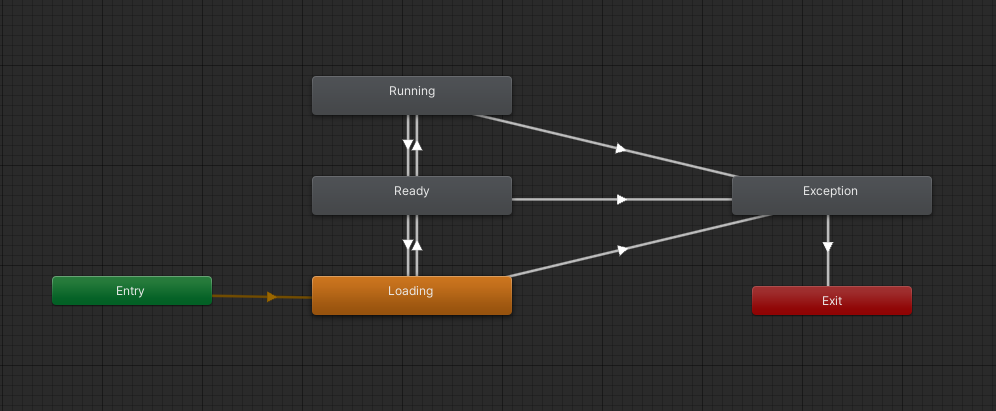
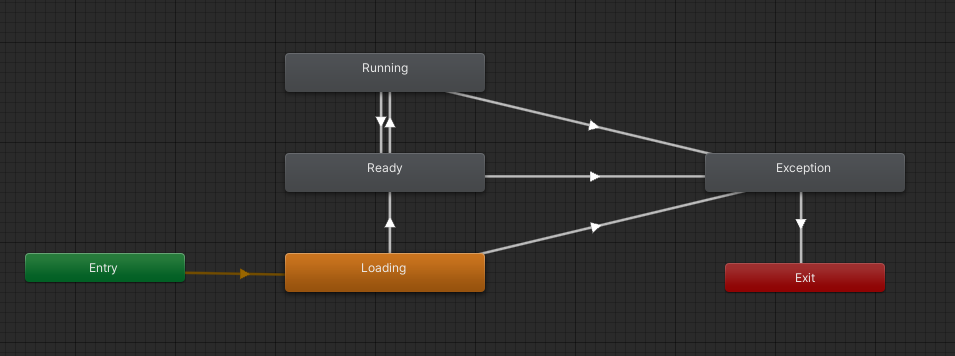
add two signaling_handler files for further refactor; update FSM in docs;

Changed region(s): [[0.0, 0.4017, 0.9717, 0.8343], [0.2733, 0.1236, 0.6984, 0.4944], [0.7895, 0.4326, 0.8806, 0.4944]]

diff --git a/DeepLearningScheduler/handler_signaling.py b/DeepLearningScheduler/handler_signaling.py
@@ -1,0 +1,96 @@
+import asyncio
+import queue
+import logging, time
+
+# self-defined modules
+from control_signal import generate_signal, parse_signal, SignalCommand
+from AbstractHandler import HandlerStatus
+
+async def handle_signaling(control_queue, base_time, config, logger=logging, instance=None):
+    """
+    singaling response in child process
+    handler the signals from controller to move itself to different status
+    """
+    handler_id, handler_name, handler_description, handler_priority, handler_dependencies = config
+    if(instance is None):
+        logger.critical(f"Can not create a signaling handler without task instance in task [{handler_id}]{handler_name}")
+        return
+    STATUS = HandlerStatus.Entry
+    logger.debug(f'handler signaling processing debug:{handler_id}, {handler_name}, {handler_description}, {handler_priority}, {handler_dependencies}, {STATUS}')
+    while True:
+        # 使用asyncio.sleep()挂起协程，让它不阻塞
+        # await asyncio.sleep(0)
+        # 使用queue.get_nowait()检查queue是否有信号，如果有就立即返回，如果没有就抛出queue.Empty异常
+        try:
+            signal_message = control_queue.get_nowait()
+            # logging.debug(f"Received signal: {signal_message}")
+            # only handle the signal with their handlerid
+            signal_handlerid, signal_command, *signal_args = parse_signal(signal_message)
+            if(signal_handlerid != handler_id):
+                # put it back until the correct receiver handle it
+                control_queue.put(signal_message)
+                continue
+            # logger.info(f"[{handler_id}][{handler_name}] Received signal: [{signal_command}]")
+            # depends on different signal to execute handlers
+            if(SignalCommand[signal_command] == SignalCommand.PING):
+                # return a time
+                reply_time = f"--time {time.time() - base_time}"
+                # use this handler_id as unique identity
+                reply_source = f"--source {handler_id}"
+                # for enum value, must send it's value so that the receiver can match it.
+                reply_status = f"--status {STATUS.value}"
+                # only in status entry, reply heart ping
+                if(STATUS == HandlerStatus.Entry):
+                    signal_message = generate_signal(0, SignalCommand.PING, reply_time, reply_source, reply_status)
+                    control_queue.put(signal_message)
+                continue
+            elif(SignalCommand[signal_command] == SignalCommand.LOADDATA):
+                # skip repeat signal while already in execution
+                if(STATUS == HandlerStatus.Load):
+                    continue
+                loop = asyncio.get_event_loop()
+                start_time = time.time() - base_time
+                # load data until finished
+                await loop.create_task(instance.load_data())
+                STATUS = HandlerStatus.Load
+                reply_start_time = f"--start_time {start_time}"
+                reply_end_time = f"--end_time {time.time() - base_time}"
+                reply_source = f"--source {handler_id}" # use this handler_id as unique identity
+                reply_status = f"--status {STATUS.value}" # for enum value, must send it's value so that the receiver can match it.
+                signal_message = generate_signal(0, SignalCommand.PING, reply_source, reply_status, reply_start_time, reply_end_time)
+                control_queue.put(signal_message)
+                continue
+            elif(SignalCommand[signal_command] == SignalCommand.READY):
+                # skip repeat signal while already in execution
+                if(STATUS == HandlerStatus.Ready):
+                    continue
+                start_time = time.time() - base_time
+                # set to ready
+                instance.ready()
+                STATUS = HandlerStatus.Ready
+                reply_start_time = f"--start_time {start_time}"
+                reply_end_time = f"--end_time {time.time() - base_time}"
+                reply_source = f"--source {handler_id}" # use this handler_id as unique identity
+                reply_status = f"--status {STATUS.value}" # for enum value, must send it's value so that the receiver can match it.
+                signal_message = generate_signal(0, SignalCommand.PING, reply_source, reply_status, reply_start_time, reply_end_time)
+                control_queue.put(signal_message)
+                continue
+            elif(SignalCommand[signal_command] == SignalCommand.RUN):
+                # skip repeat signal while already in execution
+                if(STATUS == HandlerStatus.Running):
+                    continue
+                loop = asyncio.get_event_loop()
+                start_time = time.time() - base_time
+                # load data until finished
+                output = await loop.create_task(instance.run())
+                STATUS = HandlerStatus.Running
+                reply_start_time = f"--start_time {start_time}"
+                reply_end_time = f"--end_time {time.time() - base_time}"
+                reply_source = f"--source {handler_id}" # use this handler_id as unique identity
+                reply_status = f"--status {STATUS.value}" # for enum value, must send it's value so that the receiver can match it.
+                reply_output = f"--output {output}"
+                signal_message = generate_signal(0, SignalCommand.PING, reply_source, reply_status, reply_output, reply_start_time, reply_end_time)
+                control_queue.put(signal_message)
+                continue
+        except queue.Empty:
+            continue

diff --git a/DeepLearningScheduler/controller_signaling.py b/DeepLearningScheduler/controller_signaling.py
@@ -1,20 +1,12 @@
 import asyncio
 import queue
 import logging
-from enum import Enum
 
 # self-defined modules
 from control_signal import convert_args_to_dict, generate_signal, parse_signal, SignalCommand
+from AbstractHandler import HandlerStatus
 
-class HandlerStatus(Enum):
-    Entry = "Entry"
-    Load = "Load"
-    Ready = "Ready"
-    Running = "Running"
-    Error = "Error"
-    Exit = "Exit"
-
-async def main_process_signaling(control_queue, logger=logging):
+async def controller_signaling(control_queue, logger=logging):
     """
     signaling repsonse in controller process
     """
@@ -30,9 +22,8 @@ async def main_process_signaling(control_queue, logger=logging):
                 # put it back until the correct receiver handle it
                 control_queue.put(signal_message)
                 continue
-            # 处理信号
-            # logger.info(f"[CTRL] Received signal: {signal_message}")
-            args_dict = convert_args_to_dict(signal_command)
+            args_dict = convert_args_to_dict(signal_args)
+            # logger.debug(f"[CTRL] Received signal: {signal_message},\n Parse args_dict: {args_dict}")
             if(SignalCommand[signal_command] == SignalCommand.PING):
                 if(HandlerStatus[args_dict["status"]] == HandlerStatus.Entry):
                     # send a signal to subprocess to load data
@@ -48,6 +39,12 @@ async def main_process_signaling(control_queue, logger=logging):
                     # send a signal to subprocess to run
                     # for different subprocess, we can pass constrain as arguments
                     signal_message = generate_signal(args_dict["source"], SignalCommand.RUN)
+                    control_queue.put(signal_message)
+                    continue
+                elif(HandlerStatus[args_dict["status"]] == HandlerStatus.Running):
+                    # send a signal to subprocess to ready
+                    logger.info(f'[CTRL] Received task[{args_dict["source"]}] running output: {signal_message}')
+                    signal_message = generate_signal(args_dict["source"], SignalCommand.READY)
                     control_queue.put(signal_message)
                     continue
 

diff --git a/DeepLearningScheduler/handler/handler1.py b/DeepLearningScheduler/handler/handler1.py
@@ -34,10 +34,12 @@ class handler1(AbstractHandler):
     
     async def run(self):
         try:
+            output_list = []
             for i in range(self.BATCH):
                 net_out = self.test_net.forward(self.data_input).squeeze().float() 
                 steer_pred_angle = net_out.detach().cpu().numpy() / math.pi * 180
-            return steer_pred_angle
+                output_list.append(steer_pred_angle)
+            return output_list
         except MemoryError:
             return "Memory Error in running task"
         except SystemError:

diff --git a/DeepLearningScheduler/main.py b/DeepLearningScheduler/main.py
@@ -116,7 +116,7 @@ async def send_heart_ping(control_queue, handlers, relative_start_time, logger=l
             signal_heart = generate_signal(handler["id"], SignalCommand.PING, f"--time {math.floor(time.time()-basetime)}")
             # Send the PING signal to the control queue
             control_queue.put(signal_heart)
-            # logger.debug(f'Send heart signal to subprocess {signal_heart}')
+            logger.debug(f'Send heart signal to subprocess {signal_heart}')
 
         # 6ms overhead
 

diff --git a/DeepLearningScheduler/control_signal.py b/DeepLearningScheduler/control_signal.py
@@ -46,8 +46,8 @@ if __name__ == "__main__":
     # test
     signal1 = generate_signal(1, SignalCommand.LOADDATA)
     signal2 = generate_signal(2, SignalCommand.RUN, "--width 100", "--height 100")
-    # print(signal1)
-    # print(signal2)
+    print(signal1)
+    print(signal2)
     # parse a signal string
     taskid, signal, *args = parse_signal(signal1)
     assert(taskid == 1)
